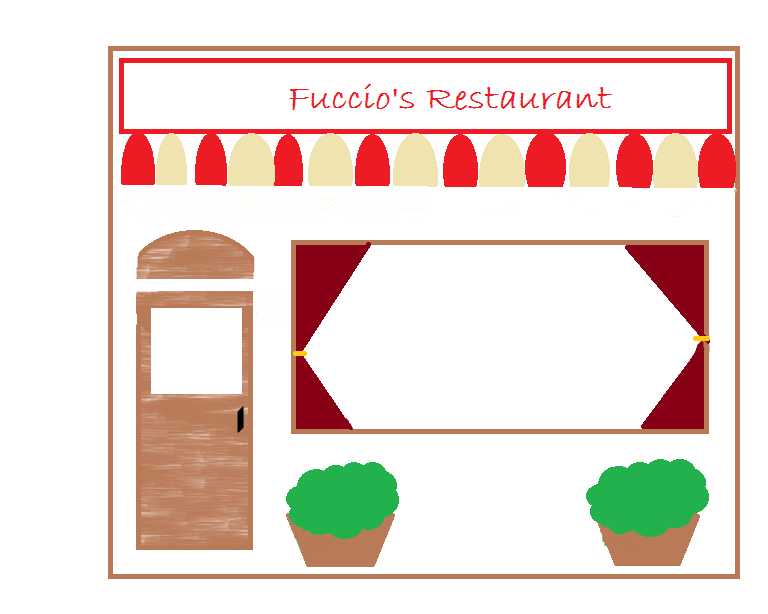
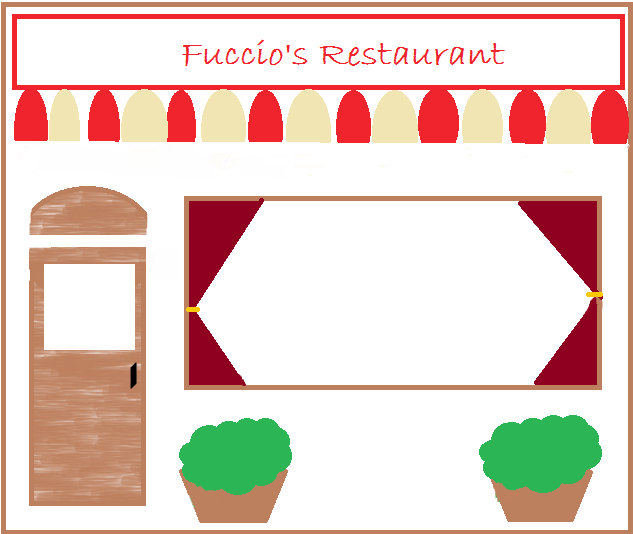
Header styling 9-21-17

diff --git a/fuccios/public_html/index.html b/fuccios/public_html/index.html
@@ -10,26 +10,24 @@
 </head>
 
 <body>
-
- <header>
-    <nav>
-      <ul>
-        <li><a href='login.html'>Login</a></li>
-        <li><a href='sign_up.html'>Sign Up Here</a></li>
-        <li><a href='page_2.html'>Menu</a></li>
-        <li><a href='page_3.html'>About/Contact Us</a></li>
-        <li><a href='page_4.html'>Events</a></li>
-        <li><a href='page_5.html'>Desserts</a></li>
-        <li><a href='page_6.html'>Locations</a></li>
-        <li><a href='page_7.html'>Drinks</a></li>
-      </ul>
-    </nav
-
- <h1> Fuccio's Restaurant </h1>
-     <img alt="Fuccio's" src="Pics/restaurant.png" width="410" height="280"/>
- </header>
- 
->
+     <nav>
+         <ul>
+           <li><a href='login.html'>Login</a></li>
+           <li><a href='sign_up.html'>Sign Up Here</a></li>
+           <li><a href='page_2.html'>Menu</a></li>
+           <li><a href='page_3.html'>About/Contact Us</a></li>
+           <li><a href='page_4.html'>Events</a></li>
+           <li><a href='page_5.html'>Desserts</a></li>
+           <li><a href='page_6.html'>Locations</a></li>
+           <li><a href='page_7.html'>Drinks</a></li>
+         </ul>
+       </nav>
+       
+    <header>
+        <div>Fuccio's Restaurant</div>
+        
+       <img alt="Fuccio's" src="Pics/restaurant.png" width=250 height="200"/>
+     </header>
 
  <h1>Welcome to Fuccio's Restaurant</h1>
  <p>Bring the whole family to Fuccio's Restaurant and enjoy an authentic Italian meal. From spaghetti to  risotto, Fuccio's has got it all!</p>

diff --git a/fuccios/public_html/page_3.html b/fuccios/public_html/page_3.html
@@ -10,20 +10,20 @@
 </head>
 
 <body>
+  <nav>
+        <ul>
+         <li><a href='login.html'>Login</a></li>
+         <li><a href='sign_up.html'>Sign Up Here</a></li>
+         <li><a href='index.html'>Main Page</a></li>
+         <li><a href='page_2.html'>Menu</a></li>
+         <li><a href='page_4.html'>Events</a></li>
+         <li><a href='page_5.html'>Desserts</a></li>
+         <li><a href='page_6.html'>Locations</a></li>
+         <li><a href='page_7.html'>Drinks</a></li>
+        </ul>
+  </nav>
+
  <header>
-    <nav>
-      <ul>
-       <li><a href='login.html'>Login</a></li>
-       <li><a href='sign_up.html'>Sign Up Here</a></li>
-       <li><a href='index.html'>Main Page</a></li>
-       <li><a href='page_2.html'>Menu</a></li>
-       <li><a href='page_4.html'>Events</a></li>
-       <li><a href='page_5.html'>Desserts</a></li>
-       <li><a href='page_6.html'>Locations</a></li>
-       <li><a href='page_7.html'>Drinks</a></li>
-      </ul>
-    </nav>
-    
     <h1>Fuccio's Restaurant</h1>
     <img alt="Fuccio's" src="Pics/restaurant.png" width="410" height="280"/>
  </header>

diff --git a/fuccios/public_html/css/style_sheet.css b/fuccios/public_html/css/style_sheet.css
@@ -8,7 +8,7 @@ nav ul{
 	padding: 0;
 	overflow: hidden;
 	background-color: #e60000;
-	font-family: arial, sans-serif
+	font-family: arial, sans-serif;
 	text-decoration:none;
 }
 
@@ -21,4 +21,26 @@ nav li a{
 	color: white;
 	text-align: center;
   	padding:10px;
+  	text-decoration:none;
+}
+
+header {
+    background-color: #efe2a2;
+    color: black;
+    font-family: edwardian script itc regular, serif;
+    font-size: 60px;
+    padding-top: 15px;
+    padding-left: 10px;
+    }
+
+header div {
+    max-height: 0px;
+    text-align: center;
+    
+}
+
+h1{
+    color: black;
+    font-family: edwardian script itc regular, serif;
+    font-size: 32px;
 }

diff --git a/fuccios/public_html/sign_up.html b/fuccios/public_html/sign_up.html
@@ -10,8 +10,7 @@
 </head>
 
 <body>
- <header>
-  <nav>
+    <nav>
      <ul>
          <li><a href='login.html'>Login</a></li>
          <li><a href='index.html'>Main Page</a></li>
@@ -23,9 +22,10 @@
          <li><a href='page_7.html'>Drinks</a></li>
      </ul>
   </nav>
-
-  <h1>Fuccio's Restaurant</h1>
-  <img alt="Fuccio's" src="Pics/restaurant.png" width="410" height="280"/>
+  
+ <header>
+    <h1>Fuccio's Restaurant</h1>
+    <img alt="Fuccio's" src="Pics/restaurant.png" width="410" height="280"/>
  </header>
 
  <p>See our other pages for more information</p>

diff --git a/fuccios/public_html/page_5.html b/fuccios/public_html/page_5.html
@@ -10,8 +10,7 @@
 </head>
 
 <body>
- <header>
-  <nav>    
+    <nav>    
      <ul>
          <li><a href='login.html'>Login</a></li>
          <li><a href='sign_up.html'>Sign Up Here</a></li>
@@ -23,7 +22,8 @@
          <li><a href='page_7.html'>Drinks</a></li>
      </ul>
   </nav>
-
+  
+ <header>
     <h1>Fuccio's Restaurant</h1>
     <img alt="Fuccio's" src="Pics/restaurant.png" width="410" height="280"/>
  </header>

diff --git a/fuccios/public_html/login.html b/fuccios/public_html/login.html
@@ -9,7 +9,6 @@
 </head>
 
 <body>
- <header>
     <nav>
         <ul>
              <li><a href='sign_up.html'>Sign Up Here</a></li>
@@ -22,7 +21,8 @@
             <li><a href='page_7.html'>Drinks</a></li>
         </ul>
     </nav>
-
+    
+ <header>
      <h1>Fuccio's Restaurant</h1>
      <img alt="Fuccio's" src="Pics/restaurant.png" width="410" height="280"/>
  </header>

diff --git a/fuccios/public_html/page_2.html b/fuccios/public_html/page_2.html
@@ -10,7 +10,6 @@
 </head>
 
 <body>
- <header>
     <nav>
          <ul>
              <li><a href='login.html'>Login</a></li>
@@ -23,7 +22,8 @@
              <li><a href='page_7.html'>Drinks</a></li>
          </ul>
     </nav>
-
+    
+ <header>
     <h1>Fuccio's Restaurant</h1>
     <img alt="Fuccio's" src="Pics/restaurant.png" width="410" height="280"/>
  </header>

diff --git a/fuccios/public_html/page_6.html b/fuccios/public_html/page_6.html
@@ -10,7 +10,6 @@
 </head>
 
 <body>
- <header>
     <nav>
          <ul>
              <li><a href='login.html'>Login</a></li>
@@ -23,6 +22,8 @@
              <li><a href='page_7.html'>Drinks</a></li>
          </ul>
     </nav>
+    
+ <header>
     
     <h1>Fuccio's Restaurant</h1>
     <img alt="Fuccio's" src="Pics/restaurant.png" width="410" height="280"/>

diff --git a/fuccios/public_html/page_4.html b/fuccios/public_html/page_4.html
@@ -10,7 +10,6 @@
 </head>
 
 <body>
- <header>
     <nav>
          <ul>
              <li><a href='login.html'>Login</a></li>
@@ -23,6 +22,8 @@
              <li><a href='page_7.html'>Drinks</a></li>
          </ul>
     </nav>
+    
+ <header>
 
     <h1>Fuccio's Restaurant</h1>
     <img alt="Fuccio's" src="Pics/restaurant.png" width="410" height="280"/>

diff --git a/fuccios/public_html/page_7.html b/fuccios/public_html/page_7.html
@@ -10,7 +10,6 @@
 </head>
 
 <body>
- <header>
     <nav>
          <ul>
              <li><a href='login.html'>Login</a></li>
@@ -24,6 +23,7 @@
          </ul>
     </nav>
 
+ <header>
     <h1>Fuccio's Restaurant</h1>
     <img alt="Fuccio's" src="Pics/restaurant.png" width="410" height="280"/>
  </header>
